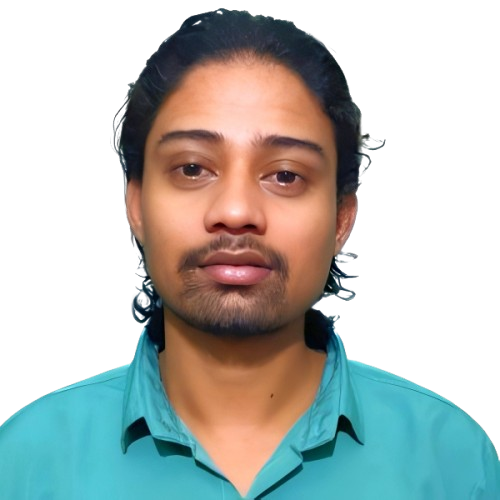
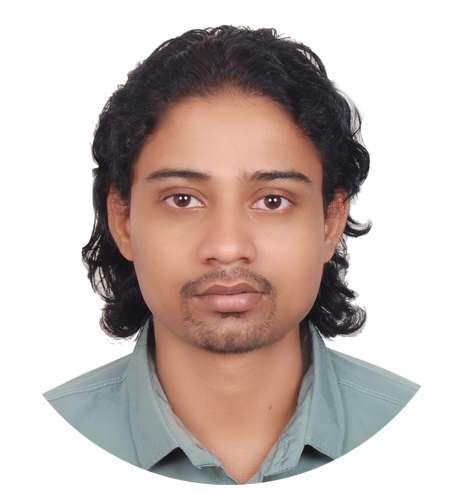
new item

diff --git a/src/components/pages/Home.jsx b/src/components/pages/Home.jsx
@@ -5,8 +5,7 @@ import Peragrap from '../Peragrap'
 import Button from '../Button'
 import { FaFileDownload } from "react-icons/fa";
 import Image from '../Image'
-import titu from '/src/assets/kobo.png'
-import{motion} from 'framer-motion'
+import titu from '/src/assets/tituC.png'
 
 const Home = () => {
   return (
@@ -14,16 +13,7 @@ const Home = () => {
     <div className='pt-10 lg:pt-20'> 
         <div className="container mx-auto px-4 lg:px-8 py-20">
             <Flex className={' flex-col-reverse md:flex-row justify-between'}>
-               <motion.div 
-                  initial={{opacity: 0, x: -100}}
-                  animate={{opacity: 1, x: 0}}
-                    transition={{
-                    type:'spring',
-                    stiffness:100,
-                    damping:25,
-                    delay:0.3,
-                    duration:1.2
-                  }}
+               <div 
                   className="lg:w-[48%]">
                     <Peragrap peraText={'Font-End Developer.'}/>
                     <Hadding className={'text-5xl lg:text-7xl font-chakra font-bold leading-15 lg:leading-20'} text={"Hello I'm"} as={'h4'}/>
@@ -31,18 +21,11 @@ const Home = () => {
                     <Peragrap className={'pt-5'} peraText={"As a front-end web developer, I specialize in crafting responsive, user-friendly websites that bring ideas to life. Good design creates a great impression and drives business success. Let me help you turn your vision into a digital experience that leaves a lasting impact."}/>
                     <Button className={'flex items-center gap-x-3 mt-10'} btnText={<><span>downlode cv</span><FaFileDownload/></>}/>
                     
-                </motion.div> 
+                </div> 
                <div className="lg:w-[48%]">
-                  <motion.div  initial={{scale: 0,}}
-                  animate={{scale: 1,}}
-                    transition={{
-                    stiffness:100,
-                    damping:25,
-                    delay:0.3,
-                    duration:1.2
-                  }} className="w-full flex justify-center lg:justify-end pb-5 lg:pb-0">
-                      <Image className={'w-[70%] h-[70%] rounded-full border-1 border-green-500'} imgSrc={titu} imgAlt={'titu.png'}/>
-                  </motion.div>
+                  <div className="w-full flex justify-center lg:justify-end pb-5 lg:pb-0">
+                      <Image className={'w-[70%] h-[70%]'} imgSrc={titu} imgAlt={'titu.png'}/>
+                  </div>
                 </div> 
             </Flex>
         </div>

diff --git a/src/components/pages/Project.jsx b/src/components/pages/Project.jsx
@@ -3,6 +3,8 @@ import HeaddingThree from '/src/components/HeaddingThree'
 import Flex from '../Flex'
 import Image from '../Image'
 import projectOne from '/src/assets/figmaOne.png'
+import uomo from '/src/assets/uomo.png'
+import nogo from '/src/assets/nogo.png'
 import Hadding from '../Hadding'
 import { Link } from 'react-router-dom'
 
@@ -44,11 +46,11 @@ const Project = () => {
     <>
        <div>
          <div className="container mx-auto px-4 lg:px-8">
-            <HeaddingThree className={'text-center'} textThree={<><span>My Pro</span><span className='text-green-500'>ject</span></>}/>
+            <HeaddingThree className={'text-center pb-10'} textThree={<><span>My Pro</span><span className='text-green-500'>ject</span></>}/>
             <Flex className={'py-10 justify-between flex-col md:flex-row gap-y-5 gap-x-3'}>
                 <div className="w-full lg:w-[32%] bg-white p-3 rounded">
                     <div  ref={scrollRef1} className=" h-[400px]  overflow-y-scroll group hide-scrollbar"  onMouseEnter={()=> handleMouseEnter(scrollRef1)}  onMouseLeave={()=> handleMouseLeave(scrollRef1)}>
-                    <Image className={''} imgSrc={projectOne}/>
+                    <Image className={''} imgSrc={uomo} imgAlt={'uomo.png'}/>
                 </div>
                     <div className="pt-3">
                         <Link to={'/'}><span className={'text-blue-500 font-chakra font-bold'}>Live Preview</span></Link>
@@ -57,7 +59,7 @@ const Project = () => {
                 </div>
                 <div className="w-full lg:w-[32%] bg-white p-3 rounded">
                     <div  ref={scrollRef2} className=" h-[400px] overflow-y-scroll group hide-scrollbar"  onMouseEnter={()=> handleMouseEnter(scrollRef2)}  onMouseLeave={()=> handleMouseLeave(scrollRef2)}>
-                    <Image className={''} imgSrc={projectOne}/>
+                    <Image className={''} imgSrc={nogo} imgAlt={'nogo.png'}/>
                 </div>
                     <div className="pt-3">
                         <Link to={'/'}><span className={'text-blue-500 font-chakra font-bold'}>Live Preview</span></Link>
@@ -66,7 +68,7 @@ const Project = () => {
                 </div>
                 <div className="w-full lg:w-[32%] bg-white p-3 rounded">
                     <div  ref={scrollRef3} className=" h-[400px] overflow-y-scroll group hide-scrollbar"  onMouseEnter={()=> handleMouseEnter(scrollRef3)}  onMouseLeave={()=> handleMouseLeave(scrollRef3)}>
-                    <Image className={''} imgSrc={projectOne}/>
+                    <Image className={''} imgSrc={projectOne} imgAlt={'figmaOne.png'}/>
                 </div>
                     <div className="pt-3">
                         <Link to={'/'}><span className={'text-blue-500 font-chakra font-bold'}>Live Preview</span></Link>

diff --git a/src/components/HeaddingThree.jsx b/src/components/HeaddingThree.jsx
@@ -3,7 +3,7 @@ import React from 'react'
 const HeaddingThree = ({textThree, className}) => {
   return (
     <>
-    <h3 className={`text-3xl lg:text-5xl font-open lg:leading-20 ${className}`}>{textThree}</h3>
+    <h3 className={`text-3xl lg:text-5xl font-open  ${className}`}>{textThree}</h3>
     </>
   )
 }